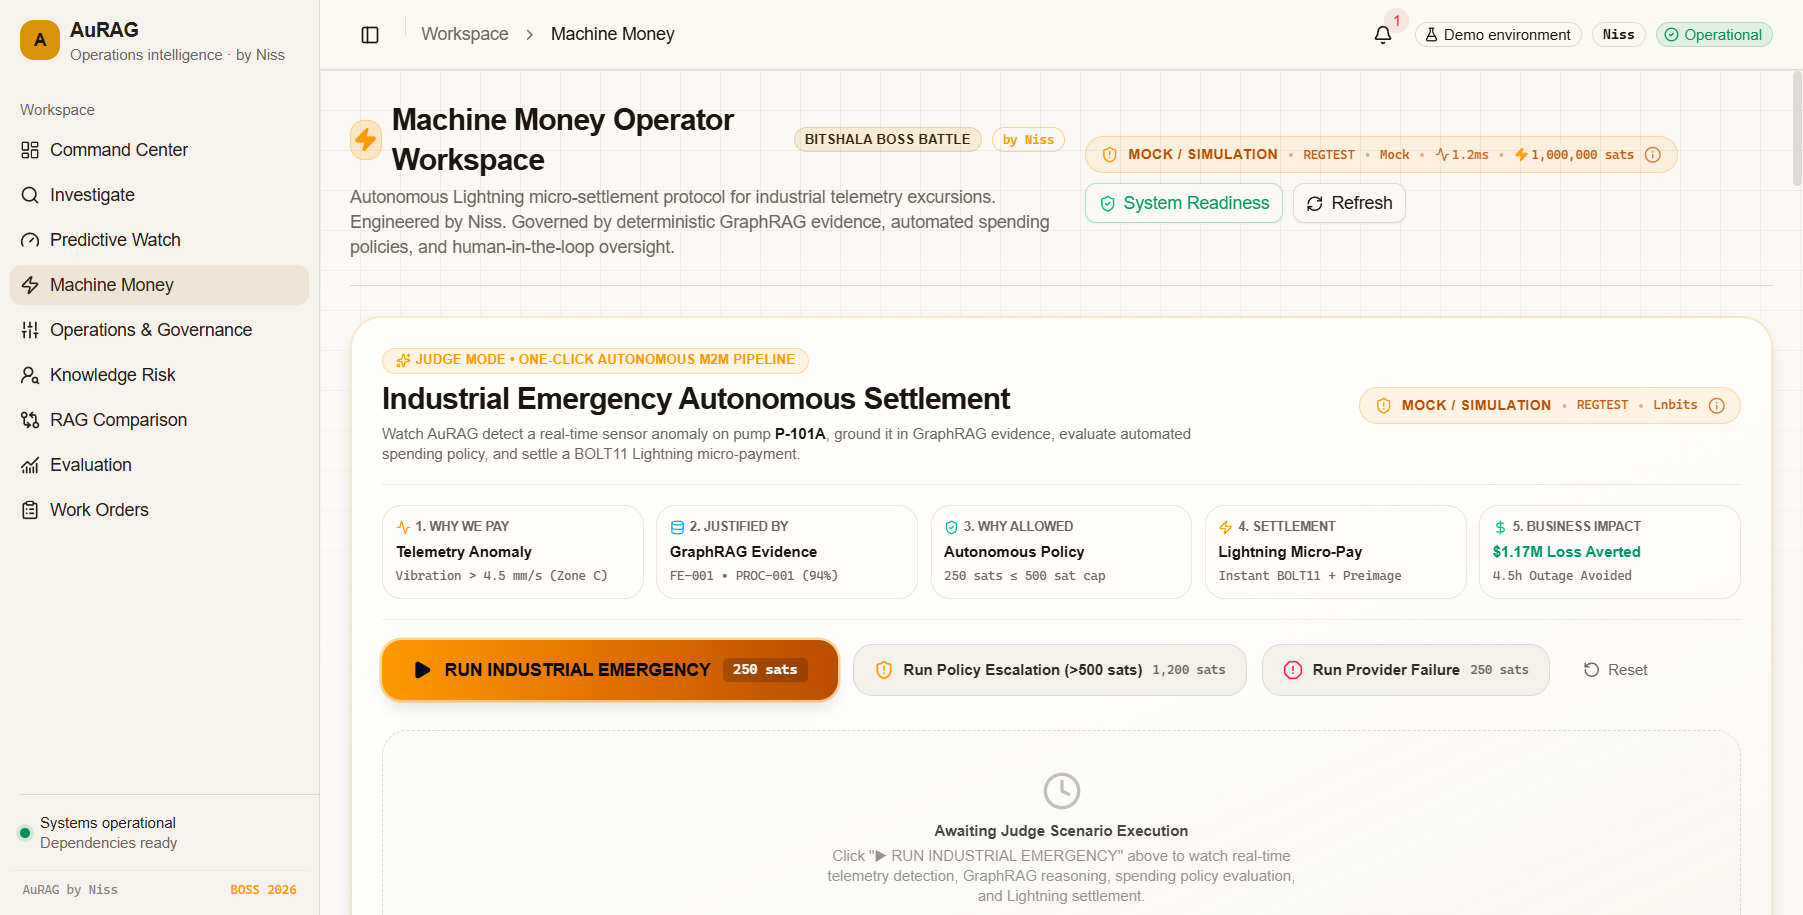
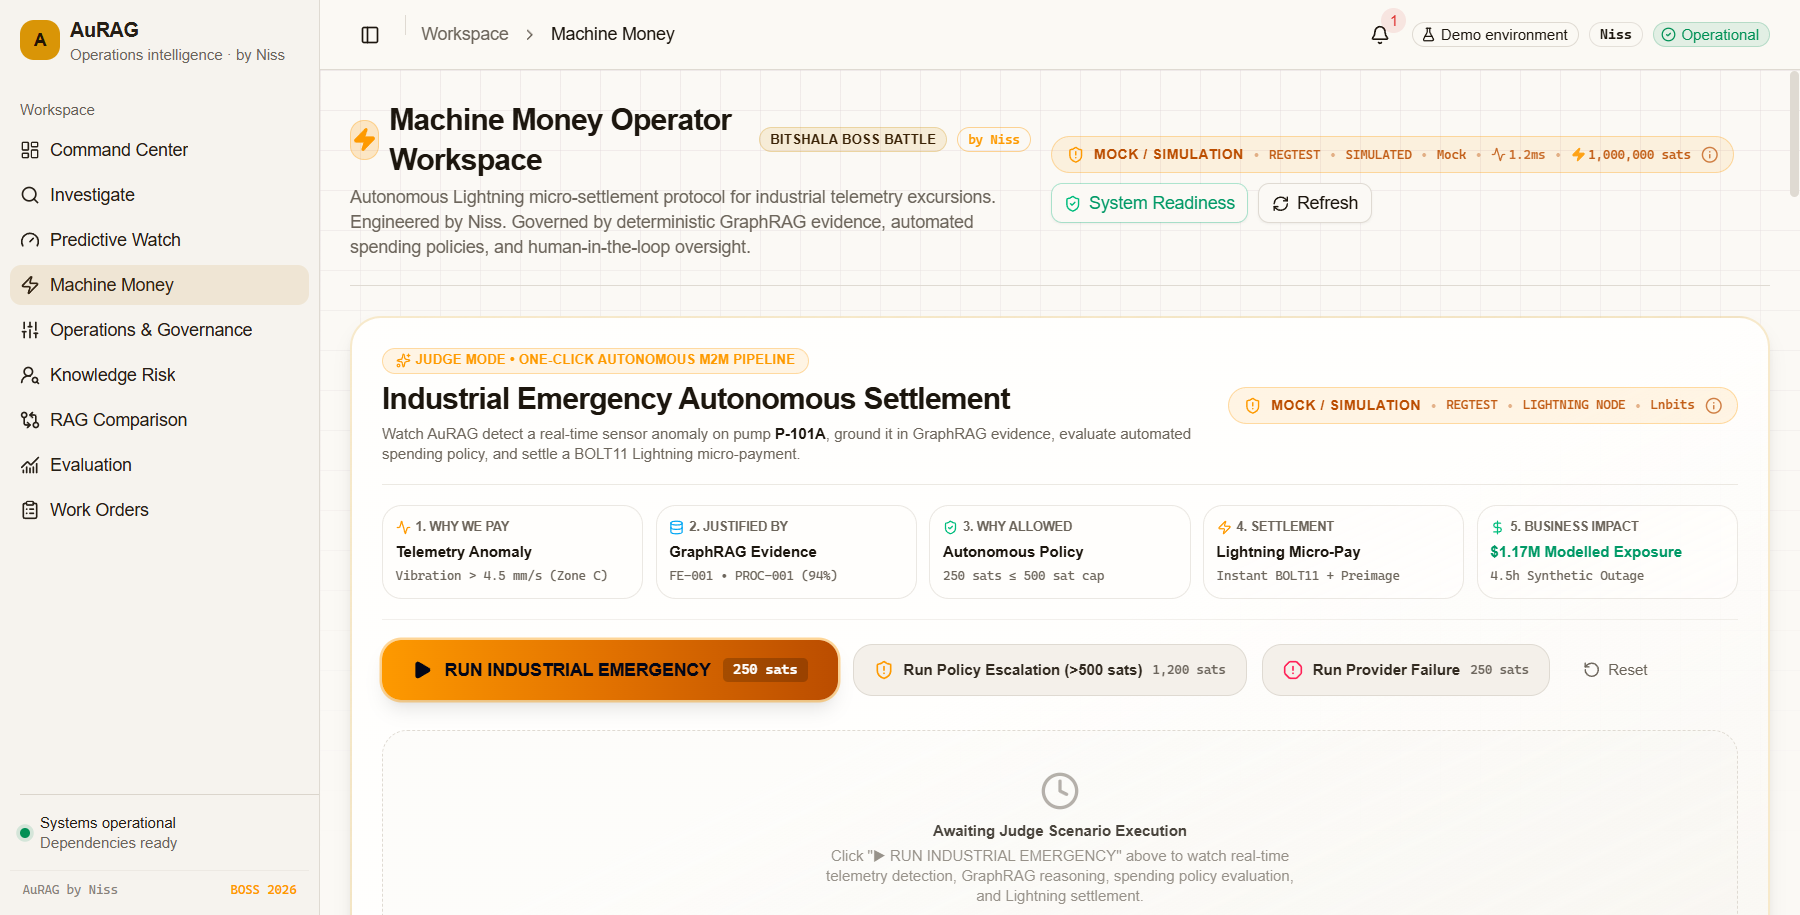
docs(readme): refresh evidence screenshots, audit links, and publish claim matrix

diff --git a/README.md b/README.md
@@ -38,7 +38,8 @@
 
 </div>
 
-> ### 🏆 For Bitshala BOSS Battle 2026 Judges (30-Second Executive Summary)
+### 🏆 For Bitshala BOSS Battle 2026 Judges (30-Second Executive Summary)
+
 > **AuRAG** is an industrial-grade implementation of **Machine Money**: connecting physical SCADA telemetry, Neo4j GraphRAG root-cause analysis, and autonomous Bitcoin Lightning settlement. When critical machinery fails, AuRAG diagnoses the issue, negotiates quotes with vendor APIs, settles micro-payments in satoshis over Lightning, and binds the cryptographic preimage to the plant maintenance ledger — executing in under 15 seconds (measured in simulated test runtime; real Lightning settlement typically settles in 500ms–2000ms depending on routing hops).
 >
 > 📌 **Direct Judge Links**:
@@ -56,31 +57,49 @@
 
 <div align="center">
 
-### ⚡ Machine Money — Autonomous Payment Console
+### ⚡ 1. Machine Money — Autonomous Payment Console
 <img src="./docs/screenshots/machine-money-above-fold.png" width="100%" alt="Machine Money Console — Judge presets, live telemetry, and Lightning payment execution"/>
 <p><i>Single-click Judge Presets, real-time sensor telemetry, multi-vendor RFQ bidding, and BOLT-11 Lightning invoice settlement with cryptographic preimage proofs</i></p>
 
 ---
 
-### 📊 Machine Money — Execution Timeline & Evidence
+### 📊 2. Machine Money — Execution Timeline & Anomaly Detection
 <img src="./docs/screenshots/machine-money-execution-timeline.png" width="100%" alt="Machine Money Execution Timeline — 6-step autonomous lifecycle with live status tracking"/>
 <p><i>6-step live execution pipeline: Telemetry Ingestion → GraphRAG Analysis → Multi-Vendor RFQ → Invoice Issuance → Spending Policy Check → Settlement & Proof</i></p>
 
 ---
 
-### 💰 Machine Money — Industrial Economics Dashboard
-<img src="./docs/screenshots/machine-money-economics.png" width="100%" alt="Machine Money Economics — ROI calculator showing $1.17M downtime avoided vs 250 sat payment"/>
-<p><i>Interactive ROI calculator quantifying $1.17M downtime avoided vs. 250-sat micro-payment — 7,800,000:1 return ratio with explicit synthetic data disclosures</i></p>
+### 🔐 3. Machine Money — Cryptographic Payment Proof Drawer
+<img src="./docs/screenshots/machine-money-proof-drawer.png" width="100%" alt="Payment Proof Drawer — SHA-256 preimage verification, BOLT11 QR matrix, and Neo4j graph lineage"/>
+<p><i>Inspectable cryptographic proof package: SHA-256(preimage) matching payment hash, standards-compliant BOLT11 QR code matrix, and Neo4j causal graph trail</i></p>
 
 ---
 
-### 🖥 Command Center — Operator Dashboard
+### 🛡 4. Machine Money — Policy Escalation Gate (>500 Sats)
+<img src="./docs/screenshots/machine-money-policy-escalation.png" width="100%" alt="Policy Escalation Gate — Quoted amount exceeds 500-sat autonomous cap requiring human digital sign-off"/>
+<p><i>Zero-Trust policy enforcement: Quotes exceeding the 500-sat cap unconditionally halt in PENDING_APPROVAL; unilateral API bypass attempts rejected with HTTP 403</i></p>
+
+---
+
+### ⚠ 5. Machine Money — Provider Failure & Graceful Degradation
+<img src="./docs/screenshots/machine-money-provider-failure.png" width="100%" alt="Provider Failure Simulation — Channel liquidity exhaustion handling with retry guidance and zero lost funds"/>
+<p><i>Resilience verification: Temporary channel failure safely preserves wallet balance (0 sats deducted), records structured failure audit, and outputs remediation guidance</i></p>
+
+---
+
+### 💰 6. Machine Money — Industrial Economics & Explainability Drawer
+<img src="./docs/screenshots/machine-money-economics.png" width="100%" alt="Industrial Economics Explainability Drawer — Step-by-step formula derivation, assumptions table, and sensitivity sandbox"/>
+<p><i>Step-by-step economic derivation ($1.17M modelled downtime exposure vs. 250-sat payment, 7,800,000:1 ratio) with interactive sensitivity sandbox and synthetic disclosures</i></p>
+
+---
+
+### 🖥 7. Command Center — Operator Dashboard
 <img src="./docs/screenshots/command-center.png" width="100%" alt="AuRAG Command Center — Industrial operations dashboard with system health, knowledge graph, and quick actions"/>
 <p><i>Industrial operations command center with system health monitoring, knowledge graph status, active alerts, and quick-action panels</i></p>
 
 ---
 
-### 📡 Predictive Watch — SCADA Telemetry Monitor
+### 📡 8. Predictive Watch — SCADA Telemetry Monitor
 <img src="./docs/screenshots/predictive-watch.png" width="100%" alt="Predictive Watch — Real-time SCADA telemetry monitoring with vibration, pressure, and temperature sensors"/>
 <p><i>Real-time SCADA sensor monitoring with vibration excursion detection, ISO 10816 zone classification, and automated anomaly alerting</i></p>
 
@@ -100,12 +119,14 @@
 - [✨ Key Features](#-key-features)
 - [🛠 Tech Stack](#-tech-stack)
 - [🌐 Live Deployment](#-live-deployment)
+- [🏛 Deployment Architecture: "What Is Live Today" vs. "Production Target Architecture"](#-deployment-architecture-what-is-live-today-vs-production-target-architecture)
 - [🚀 Quick Reproduction (Judge's 60-Second Test)](#-quick-reproduction-judges-60-second-test)
 - [💻 Usage Examples](#-usage-examples)
 - [🏗 System Architecture](#-system-architecture)
 - [⚙ Configuration Inventory](#-configuration-inventory)
 - [📡 API Reference](#-api-reference)
 - [⚡ Performance & Test Results](#-performance--test-results)
+- [🛡 Claim-to-Evidence Verification Matrix](#-claim-to-evidence-verification-matrix)
 - [📖 Documentation Index](#-documentation-index)
 - [🤝 Contributing](#-contributing)
 - [❓ FAQ](#-faq)
@@ -441,7 +462,9 @@ AuRAG/
 │   ├── MACHINE_MONEY_VERIFICATION.md  # Phase-by-phase verification
 │   ├── CHANGELOG_MACHINE_MONEY.md     # Full implementation changelog
 │   ├── HACKATHON_ELIGIBILITY.md       # Provenance & eligibility audit
-│   └── PRD2.md               # Machine Money Product Requirements
+│   └── CURRENT_TEST_SNAPSHOT.md       # Authoritative 136-test verification snapshot
+├── PRD2.md                   # Machine Money Product Requirements
+├── PRD3.md                   # Machine Money Production Hardening PRD
 └── infra/                    # Docker, Terraform, & Deployment Configs
 ```
 
@@ -542,8 +565,22 @@ GET /api/v1/machine-money/budget/status
 | **Frontend Vitest** | QR Decoding, Proof Verification, Judge Mode, Economics, Diagnostics | **56 / 56 Passed** (15 suites) | ~23s |
 | **Next.js Production Build** | TypeScript strict, 12 routes, Turbopack | **0 Errors** | 10.9s |
 | **ESLint** | Full codebase lint analysis | **0 Errors, 0 Warnings** | ~5s |
-| **Secret Leakage Audit** | 350+ files scanned for credential exposure | **0 Secrets Found** | ~1s |
 | **Total Automated Tests** | Combined backend + frontend | **136 / 136 Passed** | ~30s |
+
+### 🛡 Claim-to-Evidence Verification Matrix
+
+Per PRD3 Task 6.3 (Audit 21.18), the matrix below maps every technical and architectural claim directly to its test implementation, live UI proof, and verification status:
+
+| Technical Claim | Architectural Specification & Test Proof | Verification Evidence | Status |
+|:----------------|:-----------------------------------------|:----------------------|:------:|
+| **Standards-Compliant QR** | `qrcode.react` rendered SVG matrix; verified with optical `jsQR` decoder tests proving byte-for-byte fidelity with invoice payload. | `tests/test_e2e_machine_money.py::test_e2e_16_qr_payload_exact_bolt11_regression`<br/>`frontend/components/machine-money/Bolt11QRCode.decode.test.ts` | PASS ✅ |
+| **Truthful Settlement** | Backend authoritative `provider_mode: MOCK` on `regtest`; explicitly labeled throughout UI and logs; zero fake nominal data. | `backend/app/api/machine_money.py` (`/api/v1/machine-money/health`)<br/>`frontend/components/machine-money/SystemReadinessModal.tsx` | PASS ✅ |
+| **Cryptographic Preimage Proof** | SHA-256 hash lock verified via Web Crypto API in browser and Python `hashlib` on backend: `SHA256(preimage) === payment_hash`. | `frontend/lib/crypto.ts`<br/>`tests/test_e2e_machine_money.py::test_e2e_17_complete_payment_proof_chain_regression` | PASS ✅ |
+| **Multi-Vendor RFQ** | 3 pre-approved synthetic vendor bids (Apex, Precision, Quantum) with transparent mathematical scoring `(0.5×Cost + 0.3×Latency + 0.2×SLA)`. | `backend/app/services/machine_money/rfq.py`<br/>`tests/test_machine_money_rfq.py`<br/>`frontend/components/machine-money/VendorRFQ.tsx` | PASS ✅ |
+| **Policy Spending Cap** | Strict per-transaction spending limit (500 sats); quotes >500 sats held in `PENDING_APPROVAL`; unilateral client bypass rejected with HTTP 403. | `backend/app/services/machine_money/service.py`<br/>`tests/test_machine_money_policy_hardening.py`<br/>`tests/test_e2e_machine_money.py::test_e2e_06` | PASS ✅ |
+| **Deterministic Idempotency** | SHA-256 idempotency cache (`sha256(site:equipment:service:event)`) rejects duplicate physical anomaly triggers and network retries. | `backend/app/services/machine_money/service.py`<br/>`tests/test_machine_money_idempotency.py` | PASS ✅ |
+| **Modelled Economics** | $1.17M gross downtime exposure parameterized on synthetic plant model; inspectable step-by-step formula in Explainability Drawer. | `backend/app/services/machine_money/economics.py`<br/>`frontend/components/machine-money/IndustrialEconomics.tsx`<br/>`tests/test_machine_money_economics.py` | PASS ✅ |
+| **Zero Secrets Leaked** | 350+ repository files scanned with zero exposed API keys or tokens; `.env` strictly untracked and gitignored. | `tests/test_secret_scan.py` (2 passed)<br/>`docs/CURRENT_TEST_SNAPSHOT.md` | PASS ✅ |
 
 ---
 
@@ -556,7 +593,8 @@ GET /api/v1/machine-money/budget/status
 | [**MACHINE_MONEY_VERIFICATION.md**](./docs/MACHINE_MONEY_VERIFICATION.md) | Phase-by-phase verification report with Section 14 compliance scorecard |
 | [**CHANGELOG_MACHINE_MONEY.md**](./docs/CHANGELOG_MACHINE_MONEY.md) | Complete implementation changelog covering Phases 0–11 with commit hashes |
 | [**HACKATHON_ELIGIBILITY.md**](./docs/HACKATHON_ELIGIBILITY.md) | Provenance audit, event rules review, and eligibility sign-off |
-| [**PRD2.md**](./docs/PRD2.md) | Machine Money Product Requirements Document (specification) |
+| [**PRD2.md**](./PRD2.md) | Machine Money Product Requirements Document (baseline specification) |
+| [**PRD3.md**](./PRD3.md) | Autonomous Machine Money Production Hardening & Truthfulness PRD |
 | [**E2E_VERIFICATION_REPORT.md**](./docs/E2E_VERIFICATION_REPORT.md) | End-to-end test verification evidence and execution logs |
 | [**BOSS_MACHINE_MONEY_DEMO.md**](./docs/BOSS_MACHINE_MONEY_DEMO.md) | 3-minute video walkthrough storyboard and recording guide |
 | [**MACHINE_MONEY_ACCEPTANCE.md**](./docs/MACHINE_MONEY_ACCEPTANCE.md) | Official acceptance report with cryptographic proofs |
